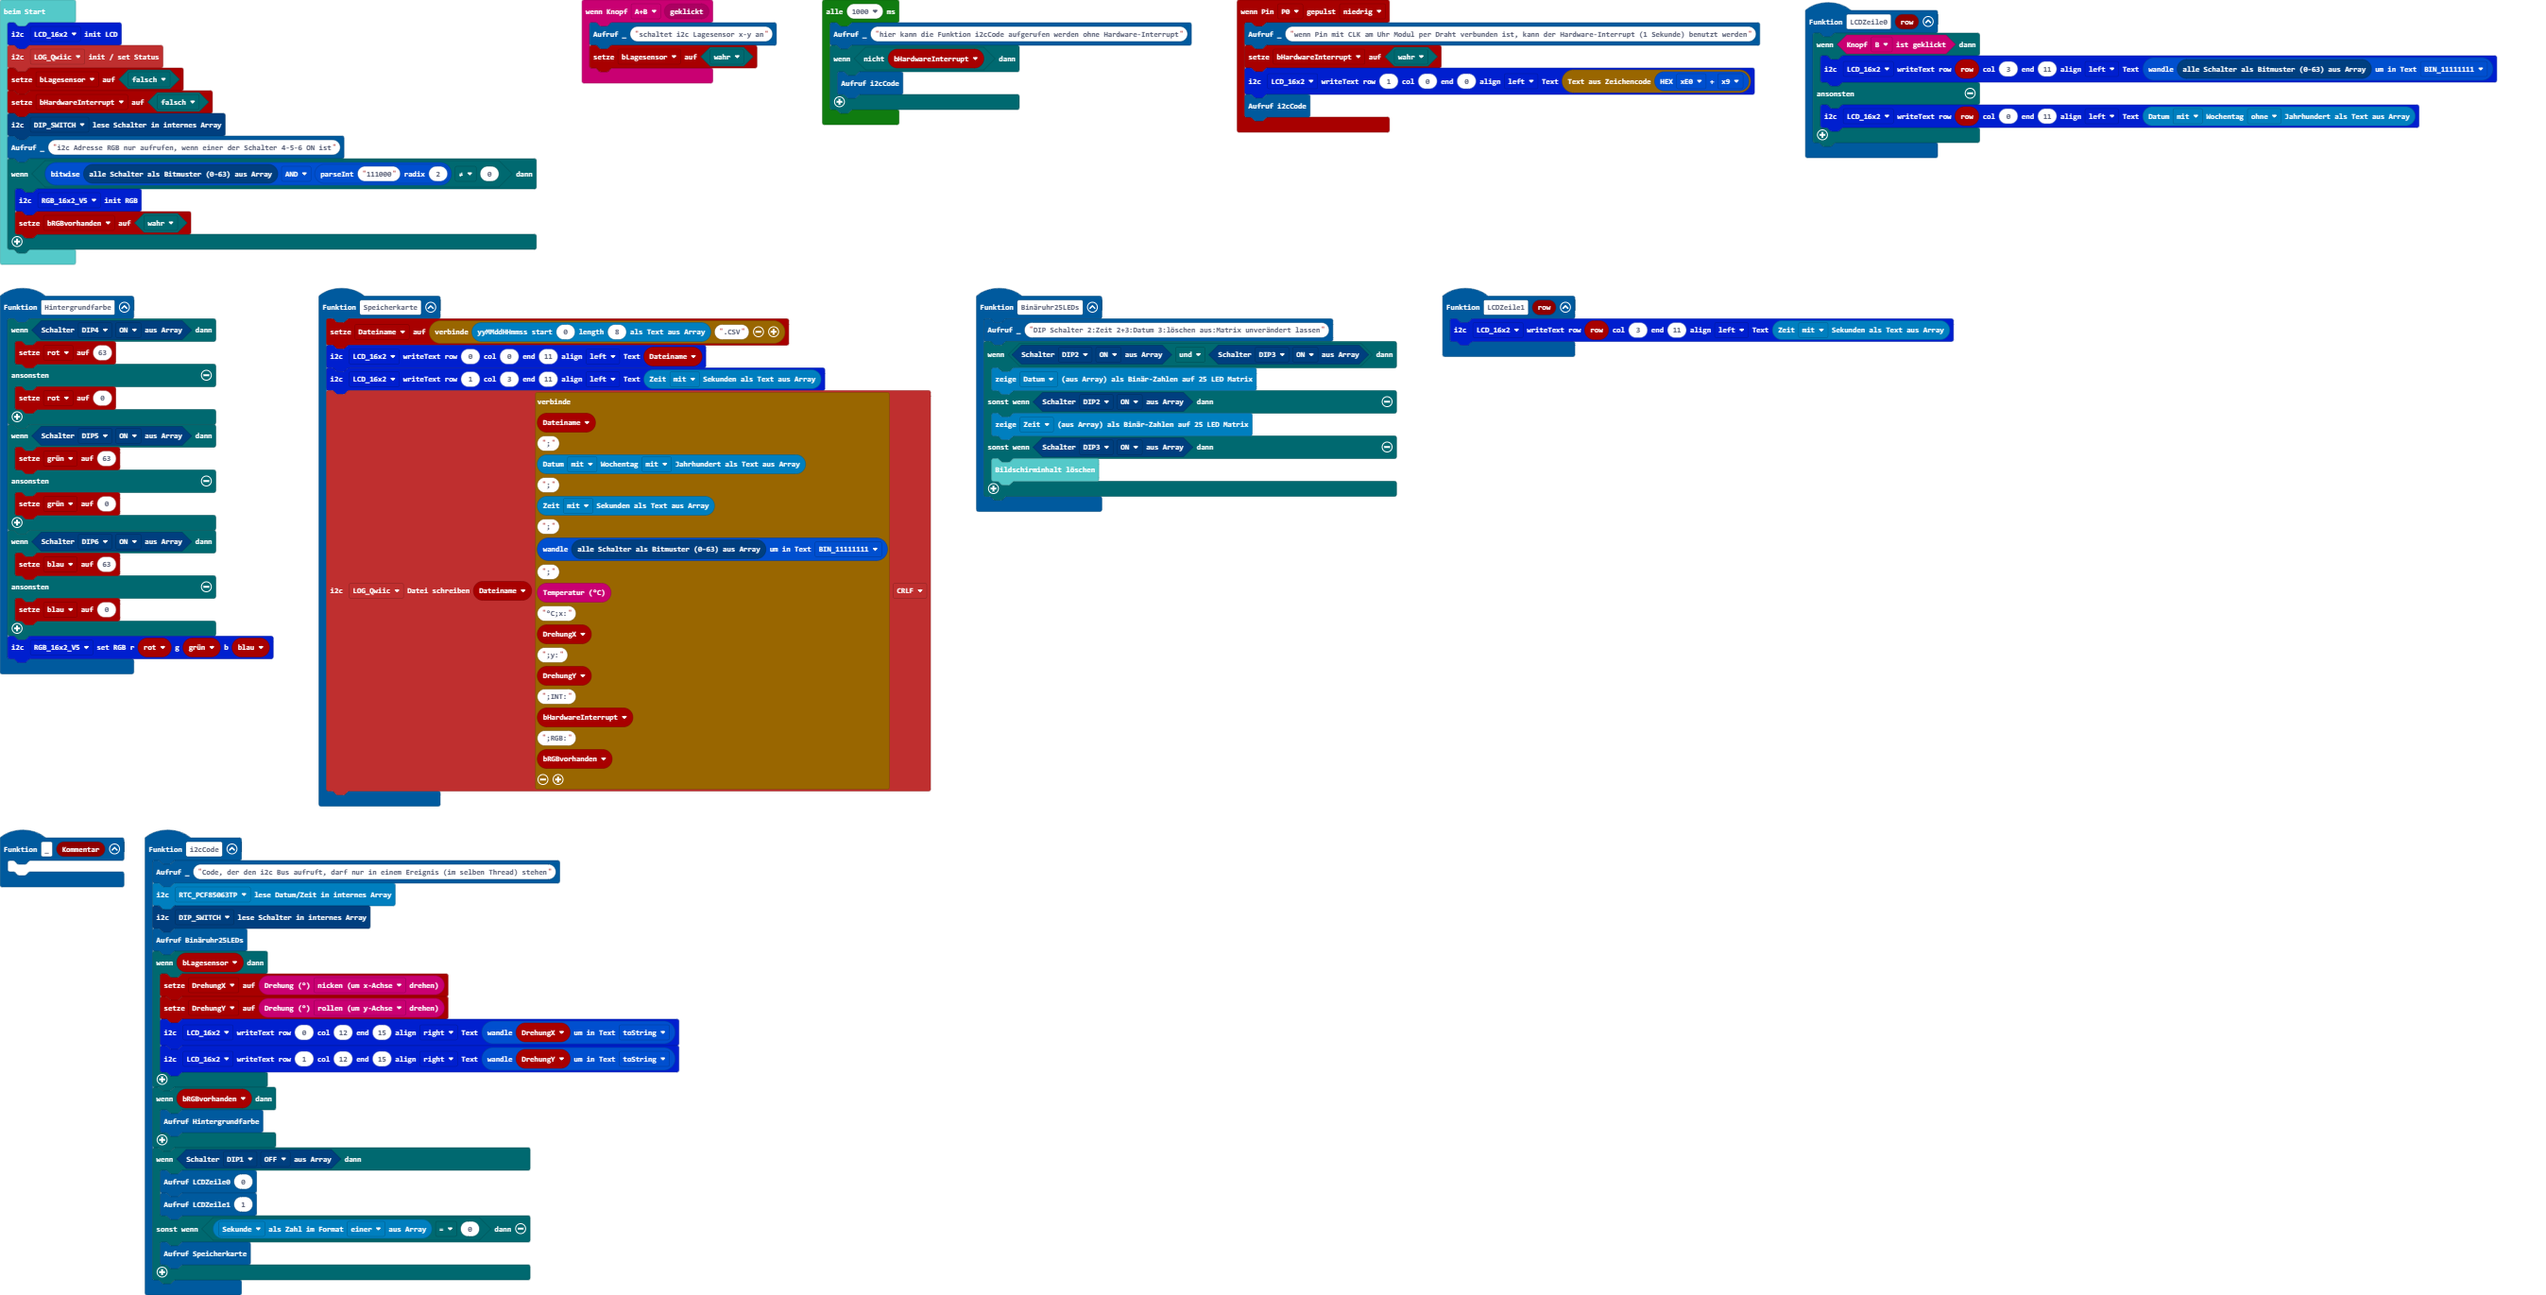
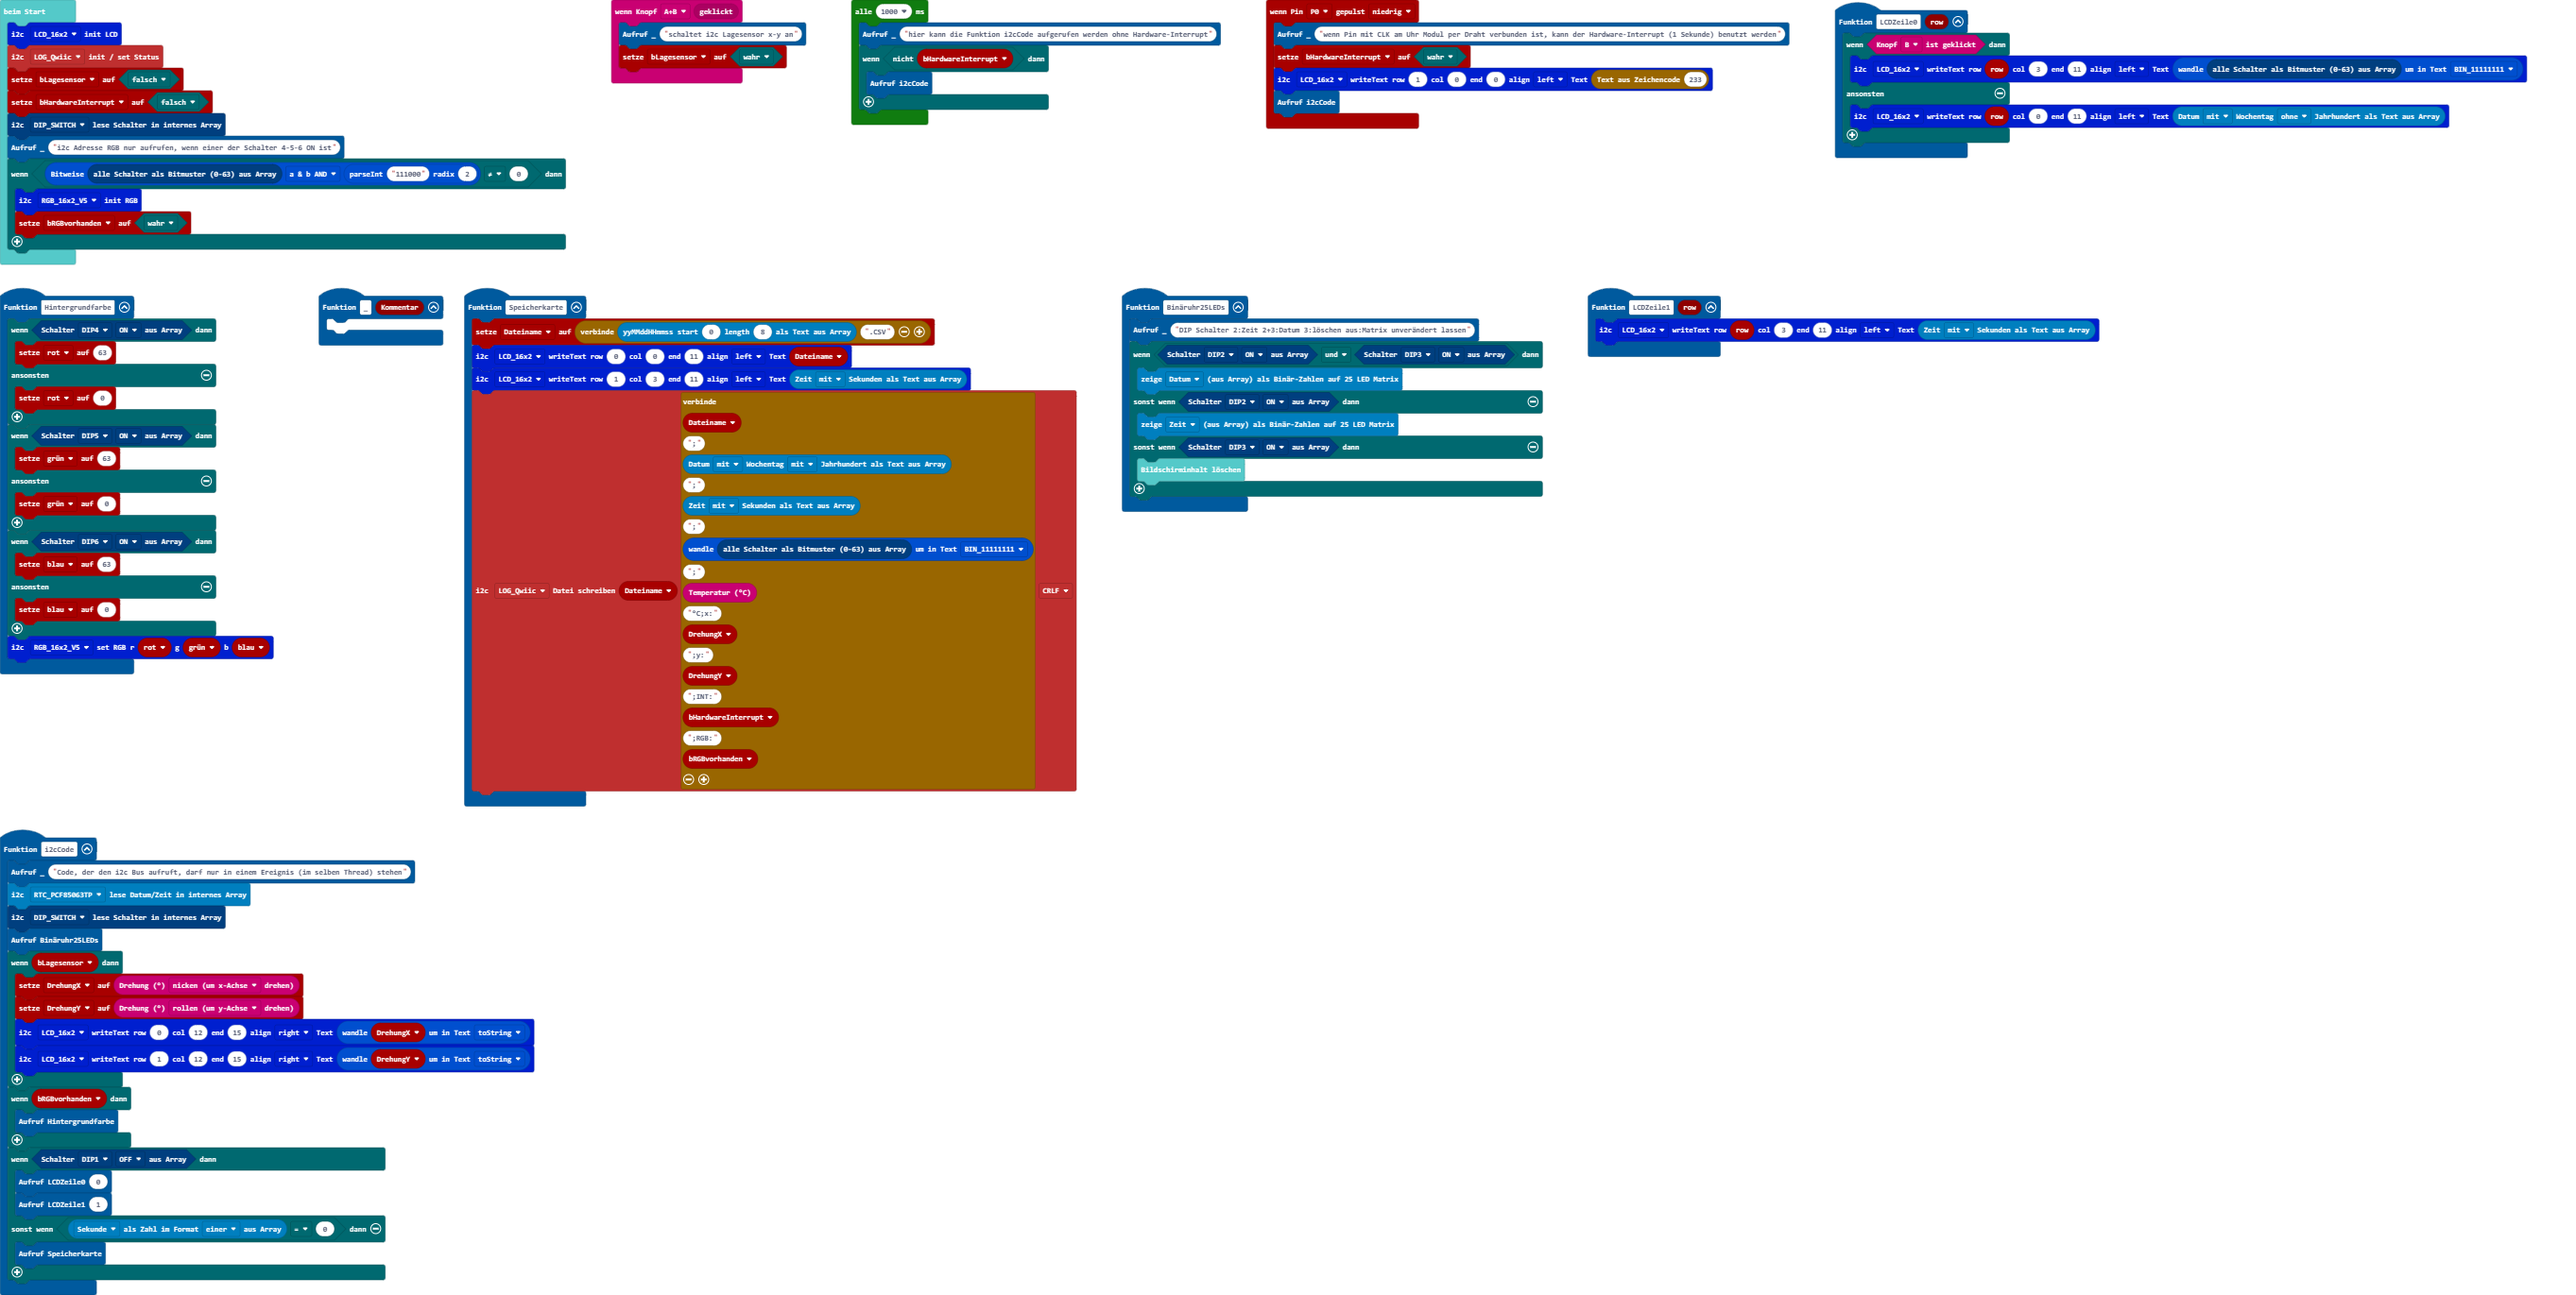
Aktualisiere pxt.json, main.blocks, main.ts

diff --git a/main.ts b/main.ts
@@ -52,7 +52,7 @@ function _ (Kommentar: string) {
 pins.onPulsed(DigitalPin.P0, PulseValue.Low, function () {
     _("wenn Pin mit CLK am Uhr Modul per Draht verbunden ist, kann der Hardware-Interrupt (1 Sekunde) benutzt werden")
     bHardwareInterrupt = true
-    lcd16x2rgb.writeText(lcd16x2rgb.eADDR_LCD.LCD_16x2, 1, 0, 0, lcd16x2rgb.eAlign.left, String.fromCharCode(bit.hex(bit.H4.xE0, bit.H0.x9)))
+    lcd16x2rgb.writeText(lcd16x2rgb.eADDR_LCD.LCD_16x2, 1, 0, 0, lcd16x2rgb.eAlign.left, String.fromCharCode(233))
     i2cCode()
 })
 function i2cCode () {
